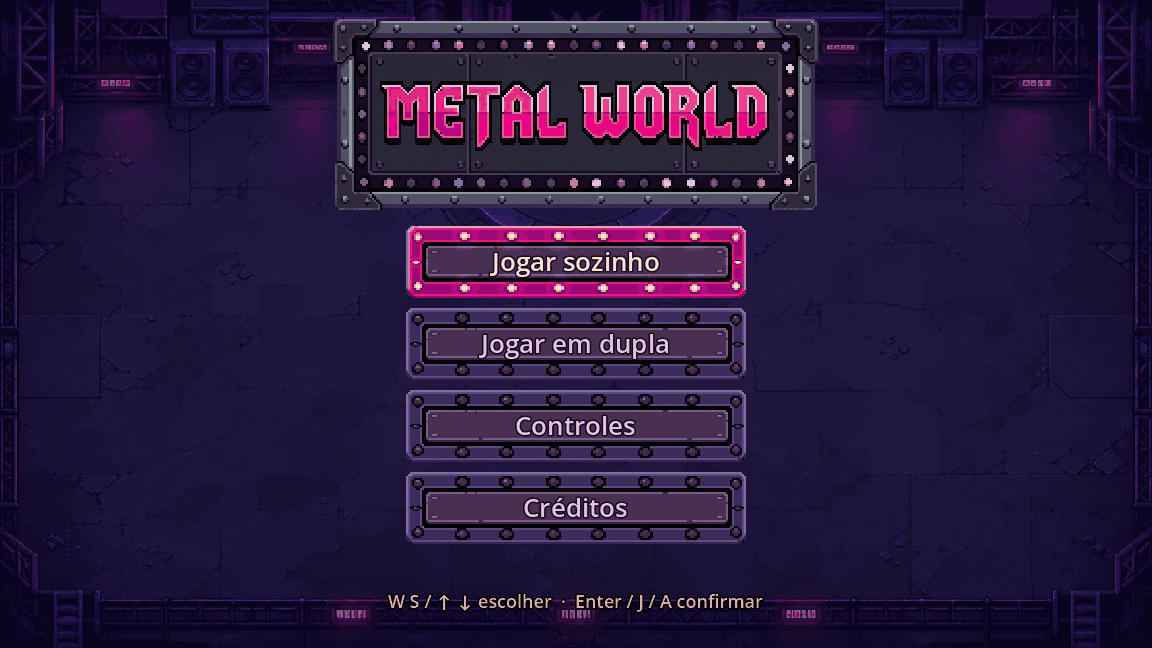
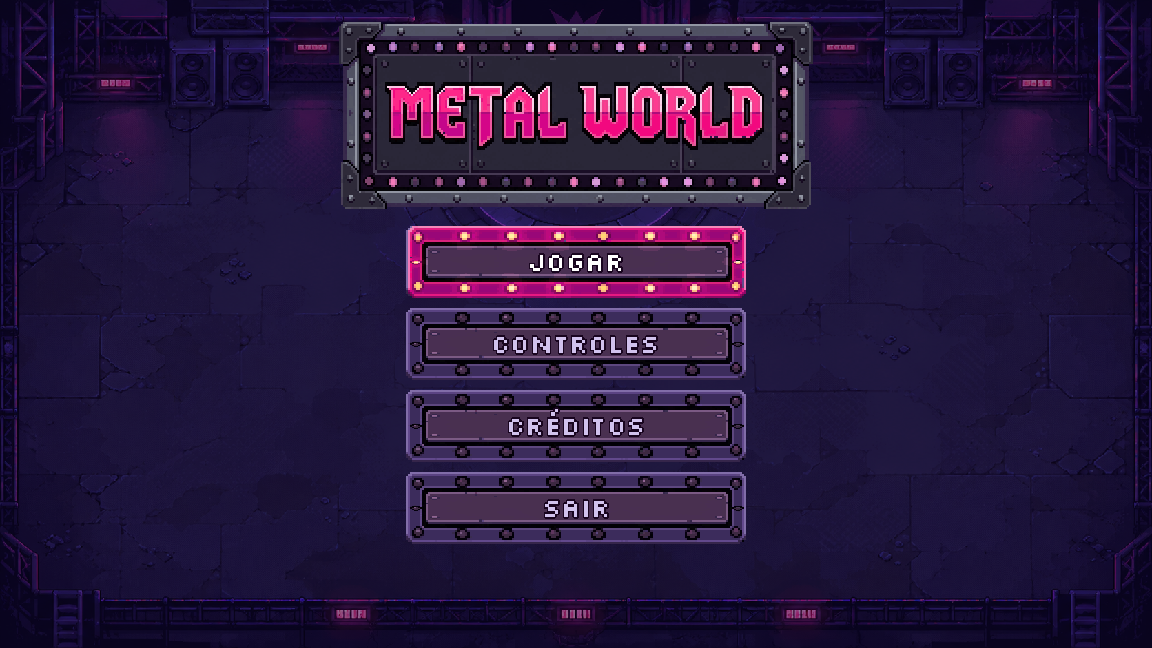
Docs: prints novos da rua, do Riff, dos totens e do menu
Capturas atuais com Dylan e Kevin em dupla: Rua 1 com o cenário novo,
Riff no Boss 1 (guitarra e bateria), pedais (totens) com os cadeados e o
menu com Sair e a fonte Silkscreen.

diff --git a/docs/DOCUMENTACAO.md b/docs/DOCUMENTACAO.md
@@ -137,7 +137,7 @@ A história, criada pelo Leonardo, acompanha **Dylan Walker**, um jovem que nasc
 - **Boss 1, o guitarrista morto-vivo do galpão**: palhetas em rajada, leque e espiral, microfonia (círculos no chão), trilha que persegue os dois jogadores, corrida pelo palco e pedais como totens.
 - **Boss 2, Paganini contra o Diabo**: um duelo no salão de concertos com uma vida só. Os dois trocam leques de notas, staccato, pinball que ricocheteia nas paredes e contratempo; a partir da fase 2 as Quatro Cordas vibram junto, e notas que se chocam abrem a Dissonância. O metrônomo é o totem.
 
-![Escudo do chefe](imagens/boss_escudo.png)
+![Totens (pedais) no Boss 1](imagens/boss_escudo.png)
 
 ### Co-op
 
